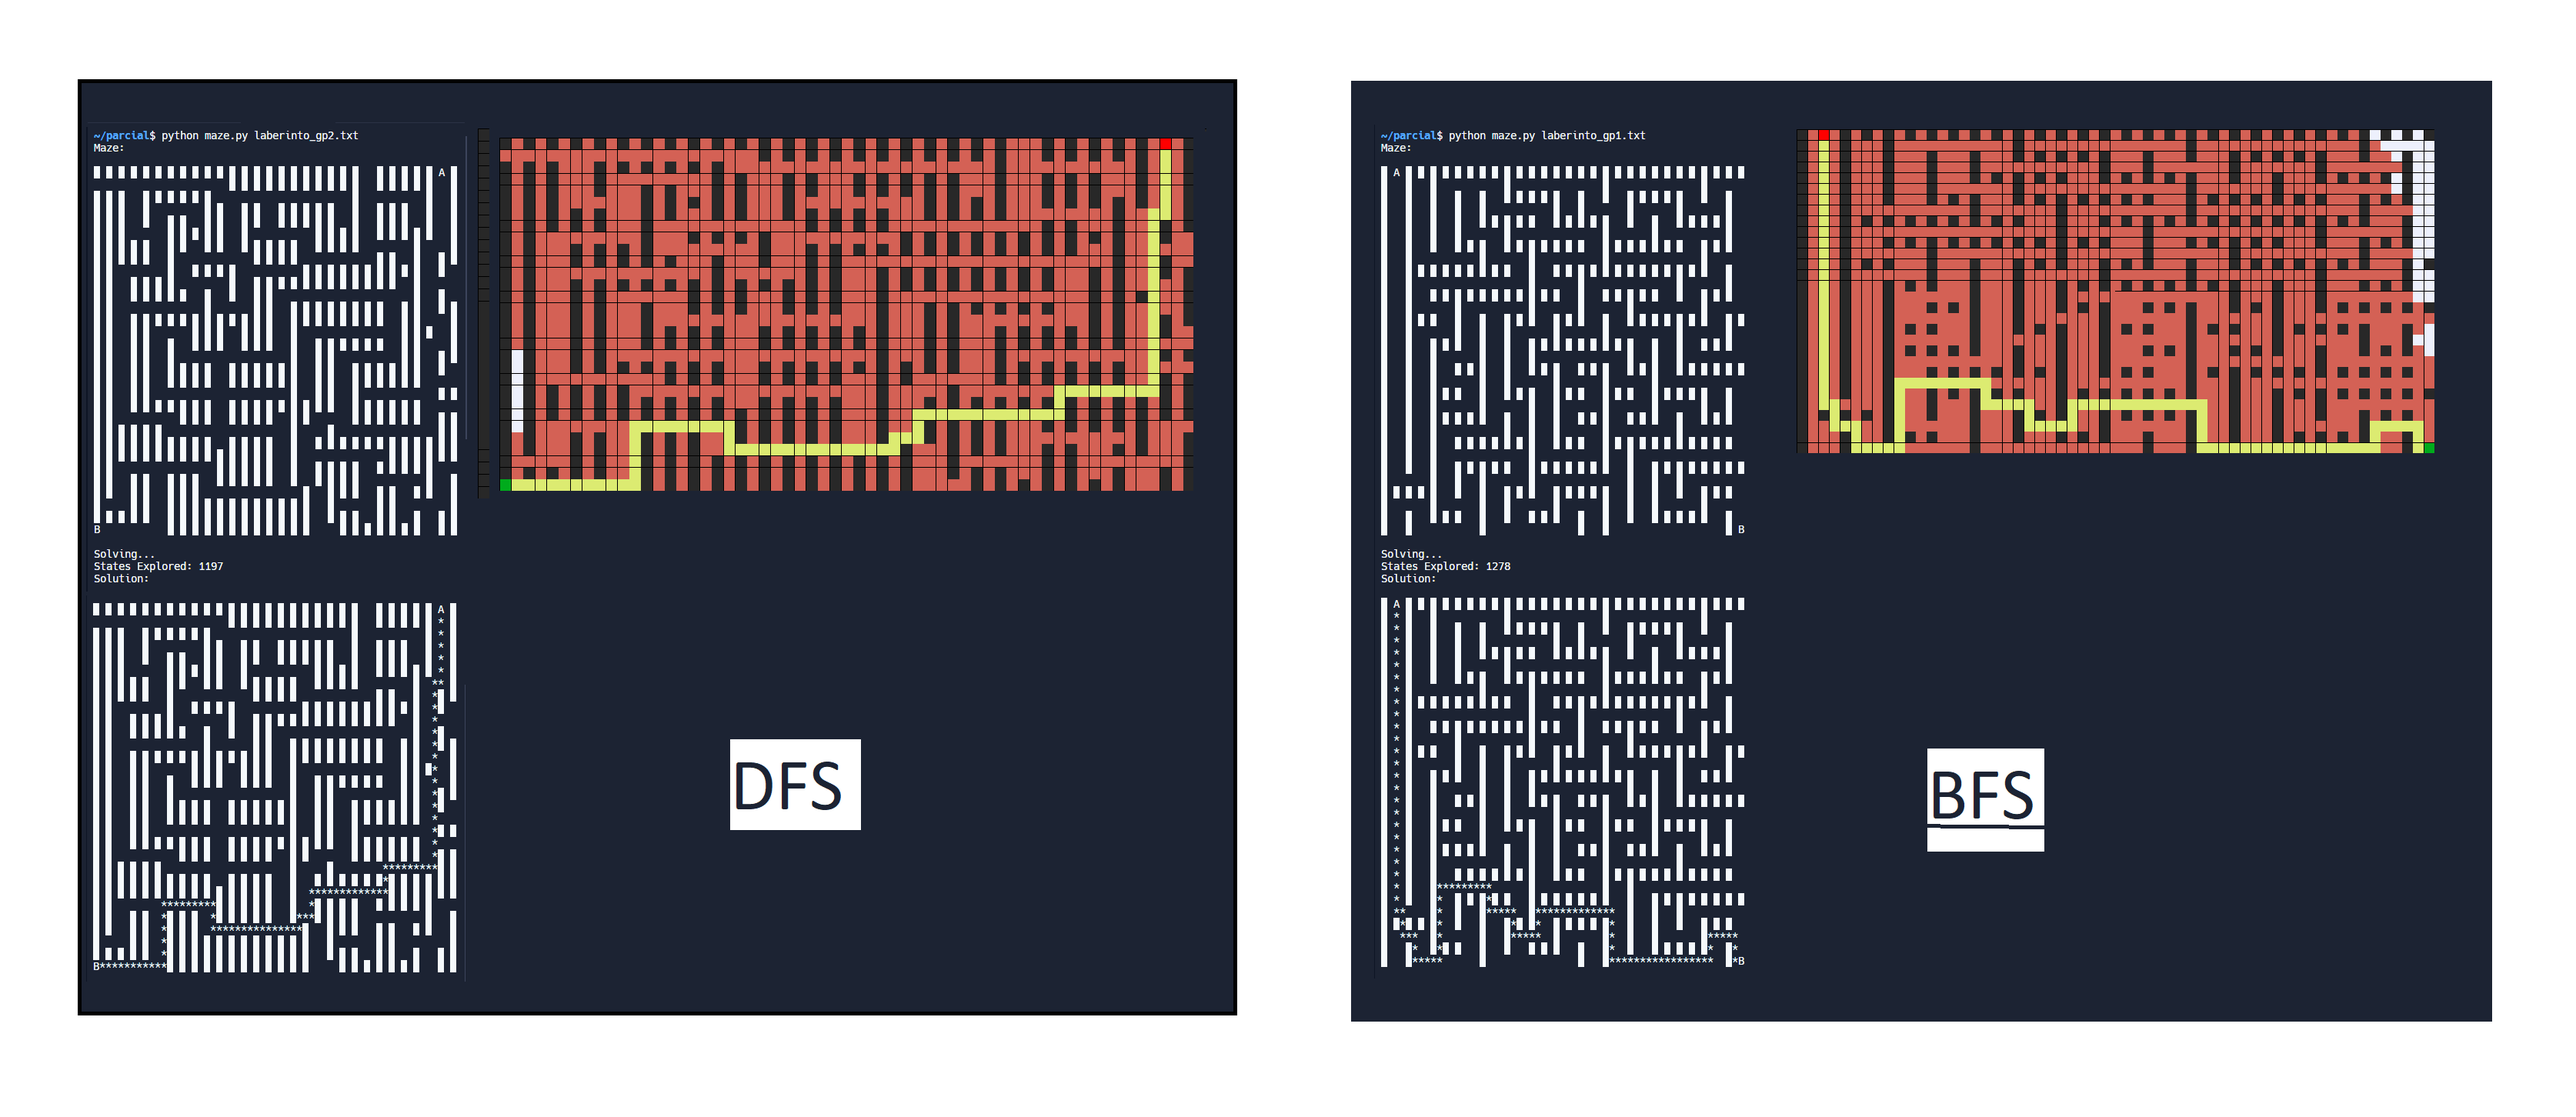
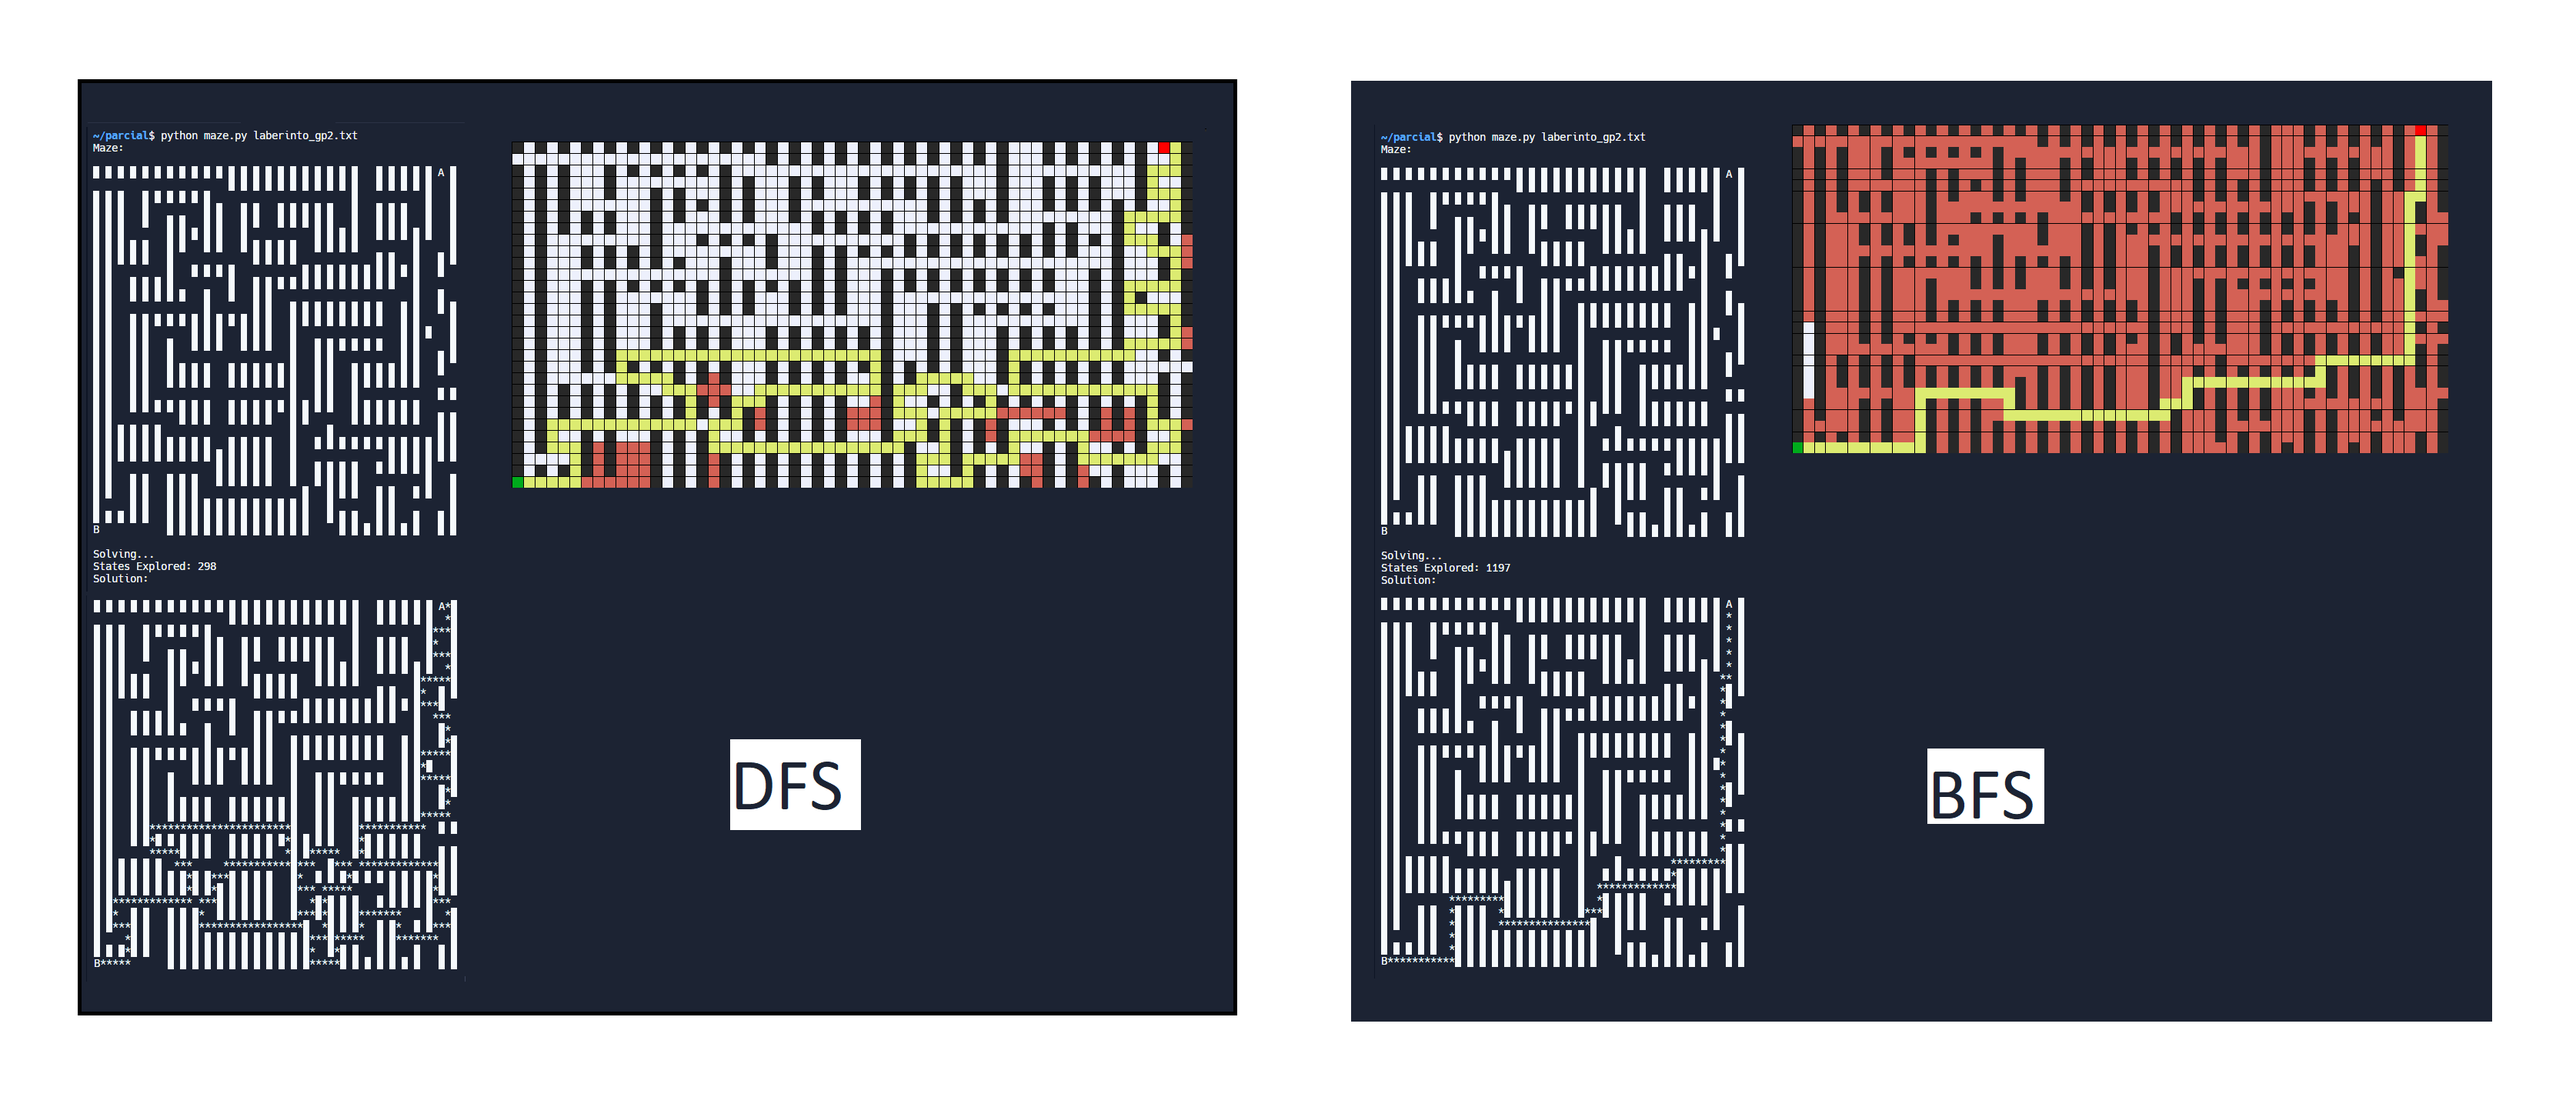
Se finaliza el punto 3 y 4

diff --git a/index.html b/index.html
@@ -78,23 +78,52 @@
                     <th>Laberinto</th>
                     <th>Pasos en DFS</th>
                     <th>Pasos en BFS</th>
+                    <th>Conclusión</th>
                 </thead>
                 <tbody>
                     <tr>
                         <td>Grupo 1</td>
-                        <td></td>
-                        <td></td>
+                        <td>181</td>
+                        <td>1278</td>
+                        <td>Se evidencia considerablemente que para este caso el algorimo DFS encontró mas rapidamente el camino más corto</td>
                     </tr>
                     <tr>
                         <td>Grupo 2</td>
-                        <td></td>
-                        <td></td>
+                        <td>298</td>
+                        <td>1197</td>
+                        <td>Se evidencia considerablemente que para este caso el algorimo DFS encontró mas rapidamente el camino más corto</td>
                     </tr>
                 </tbody>
             </table>
-            <h4>Imagen del archivo en colab</h4>
-            <img src="media/images/colab.png" alt="" srcset="" width="500px"><br>
-            <p>Nos basamos en el video "Tu primera red neuronal en Python y Tensorflow" <a href="https://youtu.be/iX_on3VxZzk?si=RONhm2yuo1cUd4EU" target="_blank" rel="noopener noreferrer">Ir al video</a>.</p>
+            <h4>Resultados Laberinto 1</h4>
+            <img src="media/images/LabGP1_DFSyBFS.png" alt="" srcset="" width="800px"><br>
+            <a href="media/images/LabGP1_DFSyBFS.png" target="_blank" rel="noopener noreferrer">Ver en tamaño completo</a>
+            <h4>Resultados Laberinto </h4>
+            <img src="media/images/LabGP2_DFSyBFS.png" alt="" srcset="" width="800px"><br>
+            <a href="media/images/LabGP2_DFSyBFS.png" target="_blank" rel="noopener noreferrer">Ver en tamaño completo</a>
+        </article>
+        <article>
+            <h3>Punto 4</h3>
+            <p>En este punto se comentará la funcionalidad del codigo compartido:</p>
+            <a href="https://drive.google.com/file/d/134s21enappr05i6r5iAkJcOCj45dsIVO/view?usp=sharing" target="_blank" rel="noopener noreferrer">Ir al archivo en Drive</a>
+            <h4>Parte #1</h4>
+            <img src="media/images/parciales/uno/p1.png" alt="" srcset="" width="700px">
+            <h4>Parte #2</h4>
+            <img src="media/images/parciales/uno/p2.png" alt="" srcset="" width="700px">
+            <h4>Parte #3</h4>
+            <img src="media/images/parciales/uno/p3.png" alt="" srcset="" width="700px">
+            <h4>Parte #4</h4>
+            <img src="media/images/parciales/uno/p4.png" alt="" srcset="" width="700px">
+            <h4>Parte #5</h4>
+            <img src="media/images/parciales/uno/p5.png" alt="" srcset="" width="700px">
+            <h4>Parte #6</h4>
+            <img src="media/images/parciales/uno/p6.png" alt="" srcset="" width="700px">
+            <h4>Parte #7</h4>
+            <img src="media/images/parciales/uno/p7.png" alt="" srcset="" width="700px">
+            <h4>Parte #8</h4>
+            <img src="media/images/parciales/uno/p8.png" alt="" srcset="" width="700px">
+            <h4>Parte #9</h4>
+            <img src="media/images/parciales/uno/p9.png" alt="" srcset="" width="700px">
         </article>
     </section>
 </body>
